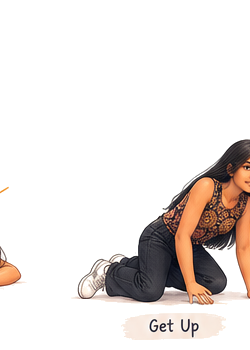
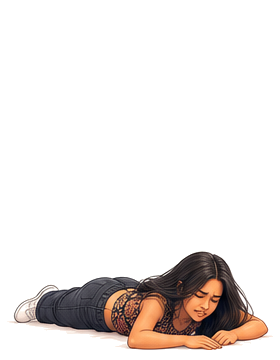
draft 2

Changed region(s): [[0.0, 0.4, 1.0, 0.9714], [0.0, 0.5143, 0.028, 0.5714]]

diff --git a/scripts/extract_devindi_sprites.py b/scripts/extract_devindi_sprites.py
@@ -19,52 +19,48 @@ def process_image():
             newData.append(item)
     img.putdata(newData)
 
-    # Wider crop boxes to ensure we capture the whole sprite
+    # Exact tight bounding boxes found via Connected Component Analysis
     regions = {
-        'run1': (280, 80, 500, 430),
-        'run2': (460, 80, 680, 430),
-        'run3': (630, 80, 850, 430),
-        'run4': (800, 80, 1050, 430),
-        'jump': (200, 420, 500, 750),
-        'duck': (430, 500, 700, 750),
-        'fall': (640, 530, 1000, 750),
-        'celebrate': (0, 1080, 350, 1550),
-        'sad': (280, 1080, 550, 1550),
-        'getup': (640, 530, 1000, 750),
-        'angry': (280, 1080, 550, 1550),
-        'sleep': (280, 1080, 550, 1550),
+        'run1': (55, 128, 250, 424),
+        'run2': (291, 129, 484, 425),
+        'run3': (504, 126, 706, 425),
+        'run4': (736, 125, 947, 430),
+        'jump': (44, 471, 211, 700),
+        'duck': (236, 529, 392, 706),
+        'fall': (436, 594, 702, 693),
+        'getup': (747, 536, 961, 702),
+        'celebrate': (201, 978, 418, 1218),
+        'sad': (590, 1038, 809, 1224),
+        'angry': (590, 1038, 809, 1224),
+        'sleep': (590, 1038, 809, 1224),
     }
     
     # Target uniform size for all sprites to fix jitter/blinking in Phaser
-    TARGET_WIDTH = 250
-    TARGET_HEIGHT = 350
+    TARGET_WIDTH = 280
+    TARGET_HEIGHT = 360
     
     for name, box in regions.items():
-        crop = img.crop(box)
-        bbox = crop.getbbox()
+        # Box is already tight, so we just crop it directly
+        char_img = img.crop(box)
+        char_w, char_h = char_img.size
         
         # Create a blank uniform image
         final_img = Image.new("RGBA", (TARGET_WIDTH, TARGET_HEIGHT), (255, 255, 255, 0))
         
-        if bbox:
-            # Crop to the actual character pixels
-            char_img = crop.crop(bbox)
-            char_w, char_h = char_img.size
+        # Align character to the bottom center of the target image
+        # This ensures feet are always at the same level across frames
+        paste_x = (TARGET_WIDTH - char_w) // 2
+        paste_y = TARGET_HEIGHT - char_h - 10 # 10 pixels padding from bottom
+        
+        # For 'jump', elevate her slightly
+        if name == 'jump':
+            paste_y -= 50
             
-            # Align character to the bottom center of the target image
-            # This ensures feet are always at the same level across frames
-            paste_x = (TARGET_WIDTH - char_w) // 2
-            paste_y = TARGET_HEIGHT - char_h - 10 # 10 pixels padding from bottom
-            
-            # For 'jump', elevate her slightly
-            if name == 'jump':
-                paste_y -= 40
-                
-            final_img.paste(char_img, (paste_x, max(0, paste_y)))
-            
+        final_img.paste(char_img, (paste_x, max(0, paste_y)))
+        
         out_path = os.path.join(output_dir, f"devindi-{name}.png")
         final_img.save(out_path)
-        print(f"Saved {out_path}")
+        print(f"Saved {out_path} (from {box})")
 
 if __name__ == '__main__':
     process_image()

diff --git a/scripts/analyze_sprites.py b/scripts/analyze_sprites.py
@@ -1,0 +1,58 @@
+from PIL import Image
+
+def find_components():
+    img = Image.open('public/assets/devindi-sprites.png').convert('RGB')
+    w, h = img.size
+    pixels = img.load()
+
+    # Create a binary matrix
+    fg = [[False] * h for _ in range(w)]
+    for y in range(h):
+        for x in range(w):
+            r, g, b = pixels[x, y]
+            if r < 240 or g < 240 or b < 240:
+                fg[x][y] = True
+
+    visited = [[False] * h for _ in range(w)]
+    components = []
+
+    # BFS
+    for y in range(h):
+        for x in range(w):
+            if fg[x][y] and not visited[x][y]:
+                q = [(x, y)]
+                visited[x][y] = True
+                min_x, max_x = x, x
+                min_y, max_y = y, y
+                
+                head = 0
+                while head < len(q):
+                    cx, cy = q[head]
+                    head += 1
+                    
+                    if cx < min_x: min_x = cx
+                    if cx > max_x: max_x = cx
+                    if cy < min_y: min_y = cy
+                    if cy > max_y: max_y = cy
+                    
+                    # 8-way connectivity
+                    for dx in [-2, -1, 0, 1, 2]:
+                        for dy in [-2, -1, 0, 1, 2]:
+                            nx, ny = cx + dx, cy + dy
+                            if 0 <= nx < w and 0 <= ny < h:
+                                if fg[nx][ny] and not visited[nx][ny]:
+                                    visited[nx][ny] = True
+                                    q.append((nx, ny))
+                
+                # Ignore very small components (noise)
+                if (max_x - min_x) > 30 and (max_y - min_y) > 30:
+                    components.append((min_x, min_y, max_x, max_y))
+
+    # Sort components by approx Y, then X
+    components.sort(key=lambda b: ((b[1] + b[3]) // (2 * 400), b[0]))
+    
+    for i, c in enumerate(components):
+        print(f"Sprite {i}: box={c} (w={c[2]-c[0]}, h={c[3]-c[1]})")
+
+if __name__ == '__main__':
+    find_components()
